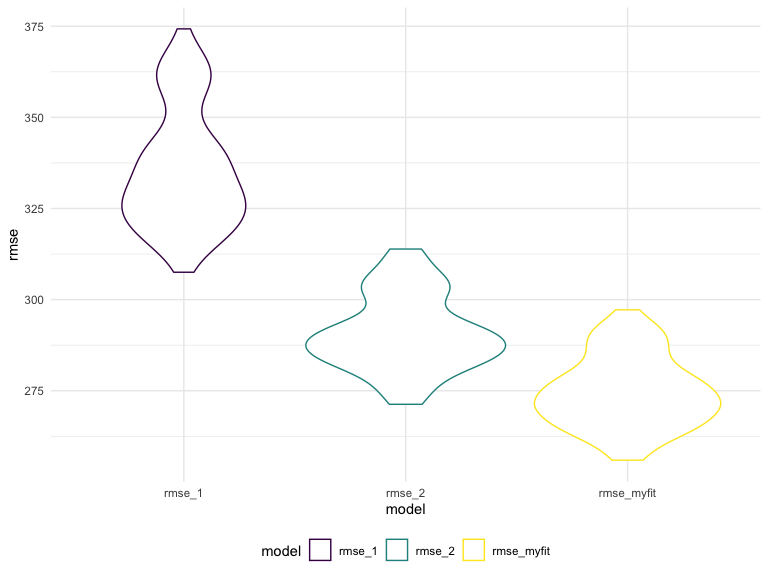
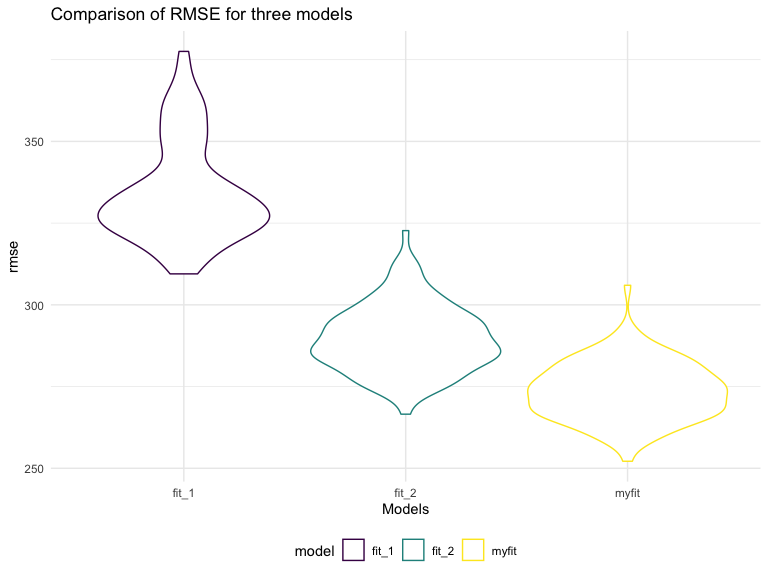
p3:comments on plot

diff --git a/p8105_hw6_wy2369.md b/p8105_hw6_wy2369.md
@@ -570,8 +570,8 @@ cv_df =
     myfit = map(.x = train, ~lm(bwt ~ babysex + bhead + blength + delwt + fincome + gaweeks + mheight + mrace + parity + ppwt + smoken, data = .x))
   ) %>% 
    mutate(
-     rmse_1 = map2_dbl(.x = fit_1, .y = test, ~rmse(model = .x, data = .y)),
-     rmse_2 = map2_dbl(.x = fit_2, .y = test, ~rmse(model = .x, data = .y)), 
+     rmse_fit_1 = map2_dbl(.x = fit_1, .y = test, ~rmse(model = .x, data = .y)),
+     rmse_fit_2 = map2_dbl(.x = fit_2, .y = test, ~rmse(model = .x, data = .y)), 
      rmse_myfit = map2_dbl(.x = myfit, .y = test, ~rmse(model = .x, data = .y))
   )
 ```
@@ -588,12 +588,20 @@ cv_df %>%
     everything(),
     names_to = "model",
     values_to = "rmse",
-    names_prefix = "rmse_ "
+    names_prefix = "rmse_"
   ) %>% 
   ggplot(aes(x = model,y =rmse,color = model))+
-  geom_violin()
+  geom_violin()+
+  labs(
+    y= "rmse", 
+    x = "Models",
+    title = "Comparison of RMSE for three models") 
 ```
 
 <img src="p8105_hw6_wy2369_files/figure-gfm/unnamed-chunk-12-1.png" width="90%" />
 
-Based on the rmse values,
+Lower rmse value means better regression model, so based on this plot,
+`myfit` has the lowest rmse value on average and `fit_1` has the
+greatest rmse value on average among these three models. Although the
+rmse value of `myfit` is about 275 which is pretty huge for a good
+regression model, `myfit` is still the best fit compared to two others.
